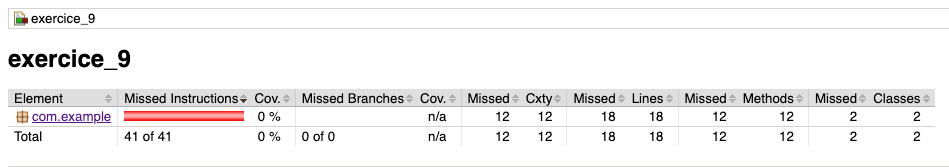
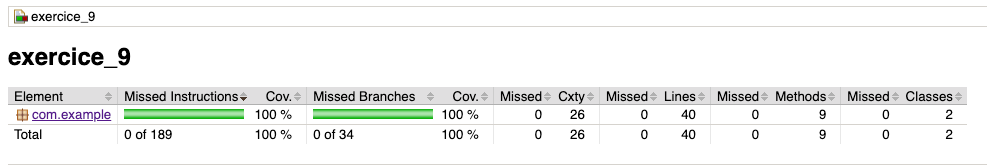
Add code for exercice 9

diff --git a/exercice_9/src/main/java/com/example/Frame.java b/exercice_9/src/main/java/com/example/Frame.java
@@ -4,6 +4,9 @@ import java.util.ArrayList;
 import java.util.List;
 
 public class Frame {
+
+    private static final int MAX_PINS = 10;
+
     private int score;
     private final boolean lastFrame;
     private final IGenerateur generateur;
@@ -16,38 +19,67 @@ public class Frame {
     }
 
     public boolean makeRoll() {
-        return false;
+        if (!canRoll()) {
+            return false;
+        }
+
+        int pins = generateur.randomPin(remainingPins());
+        rolls.add(new Roll(pins));
+        score += pins;
+        return true;
     }
 
     private boolean canRoll() {
-        return false;
+        int rollCount = rolls.size();
+
+        if (lastFrame) {
+            if (rollCount >= 3) {
+                return false;
+            }
+            if (rollCount == 2) {
+                return isStrike(0) || isSpare();
+            }
+            return true;
+        }
+
+        if (rollCount >= 2) {
+            return false;
+        }
+        if (rollCount == 1) {
+            return !isStrike(0);
+        }
+        return true;
     }
 
     private int remainingPins() {
-        return 0;
+        int rollCount = rolls.size();
+        if (rollCount == 0) {
+            return MAX_PINS;
+        }
+
+        if (!lastFrame) {
+            return MAX_PINS - rolls.get(0).getPins();
+        }
+
+        if (rollCount == 1) {
+            return isStrike(0) ? MAX_PINS : MAX_PINS - rolls.get(0).getPins();
+        }
+
+        if (isStrike(0)) {
+            return isStrike(1) ? MAX_PINS : MAX_PINS - rolls.get(1).getPins();
+        }
+        return MAX_PINS;
     }
 
     private boolean isStrike(int rollIndex) {
-        return false;
+        return rolls.get(rollIndex).getPins() == MAX_PINS;
     }
 
-    private boolean hasStrike() {
-        return false;
-    }
-
-    private boolean hasSpare() {
-        return false;
+    private boolean isSpare() {
+        return rolls.get(0).getPins() + rolls.get(1).getPins() == MAX_PINS;
     }
 
     public int getScore() {
-        return 0;
-    }
-
-    public boolean isLastFrame() {
-        return false;
-    }
-
-    public List<Roll> getRolls() {
-        return rolls;
+        return score;
     }
 }

diff --git a/exercice_9/src/test/java/com/example/FrameTest.java b/exercice_9/src/test/java/com/example/FrameTest.java
@@ -162,4 +162,17 @@ class FrameTest {
 
         assertFalse(fourthRoll);
     }
+
+    @Test
+    void shouldIncreaseScoreWhenThirdRollIsMadeAfterDoubleStrikeInLastFrame() {
+        when(generateur.randomPin(anyInt())).thenReturn(10, 10, 3);
+        Frame frame = new Frame(generateur, true);
+
+        frame.makeRoll();
+        frame.makeRoll();
+        boolean thirdRoll = frame.makeRoll();
+
+        assertTrue(thirdRoll);
+        assertEquals(23, frame.getScore());
+    }
 }

diff --git a/exercice_9/src/main/java/com/example/Roll.java b/exercice_9/src/main/java/com/example/Roll.java
@@ -9,6 +9,6 @@ public class Roll {
     }
 
     public int getPins() {
-        return 0;
+        return pins;
     }
 }
